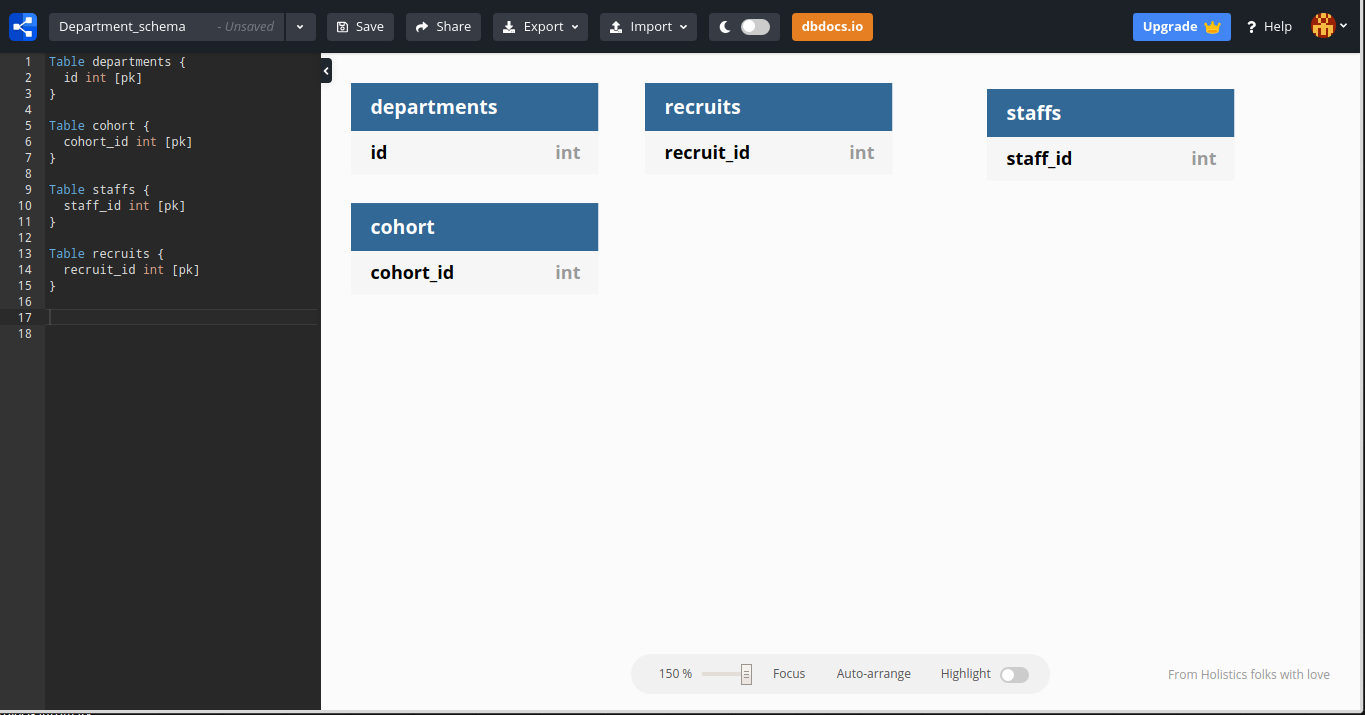
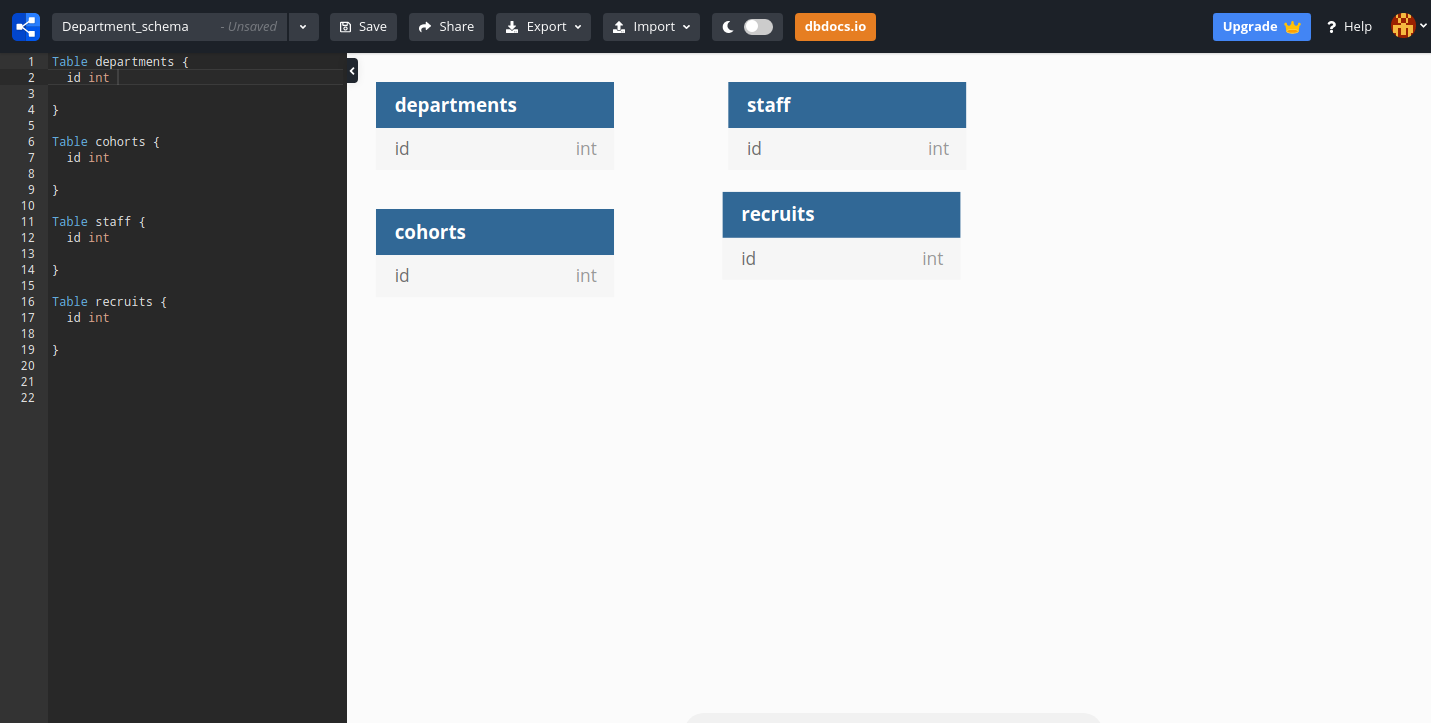
Fixed typo, changed wording

diff --git a/content/topics/sql-schema-design/index.md b/content/topics/sql-schema-design/index.md
@@ -1,9 +1,9 @@
 ---
-title: SQL
+title: SQL Database schema design
 ready: True
 ---
 
-# Database schema design
+
 
 
 In this topic, we will discuss the schema design. Here is what Wikipedia says about "Database Schema":
@@ -23,50 +23,27 @@ As a developer working on a product you have been given a ticket that has the fo
   Step 1:   idetify `entities` within a deparment
   ---
 
- Our "Department" schema to include the following entities:
+ Our "Umuzi" schema to include the following entities:
 
  - Departments
  - Cohorts
  - Recruits
- - staffs
+ - staff
+
 ![step 1 image](./img/step_1.png)
 
 
-  Step 2: Each attribute in a given entity should have a unique name
+  Step 2: Add the other attributes
   ---
 let establish all entities with their names and properties
-```
- DEPARTMENT
-    -DEP_ID
-    -DEP_NAME
-
-COHORT
-    -COHORT_ID
-    -COHORT_NAME
-    -COHORT_START_DATE
-    -COHORT_END_DATE
 
 
-STAFF
-    -STAF_ID
-    -STAFF_TYPE
-    -STAF_FULL_NAME
-    -STAF_EMAIL
-    -STAF_DEPARTMENT
-
-RECRUIT
-    -RECRUIT_ID
-    -RECRUIT_FULL_NAME
-    -RECRUIT_DEPARTMENT
-    -RECRUIT-COHORT
-    -RECRUIT_PORTFOLIO_LINK
-```
 ![step 2 image](./img/step_2.png)
 
   Step 3: establish  relationships
   ---
 
-  Each entity, attribute and relationship, should have appropriate names and that can be easily understood by the non-technical people as well. A relationship should not be connected directly to each other, a relationship should connect entities.
+  Each entity, attribute and relationship, should have appropriate names and that can be easily understood by the non-technical people as well. A relationship should connect entities.
 
  our entities within the "department schema" have the following relationships:
 
